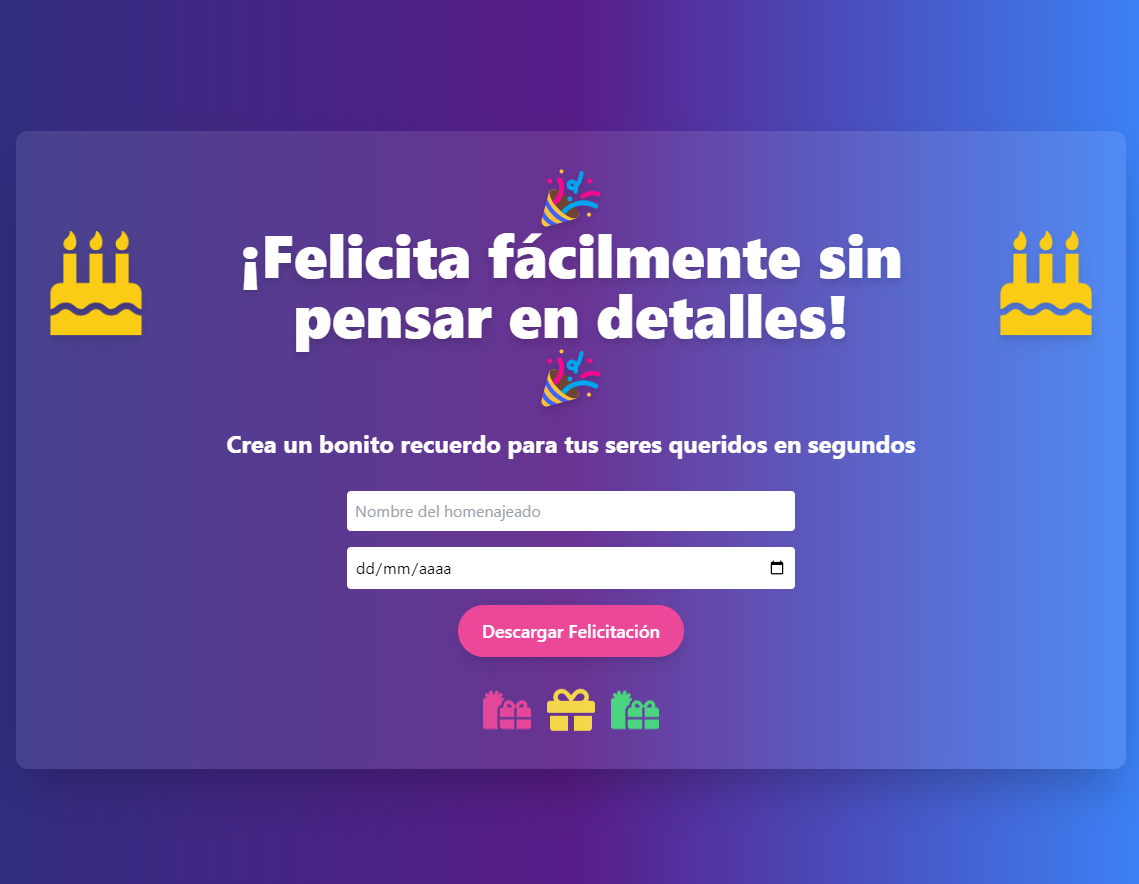
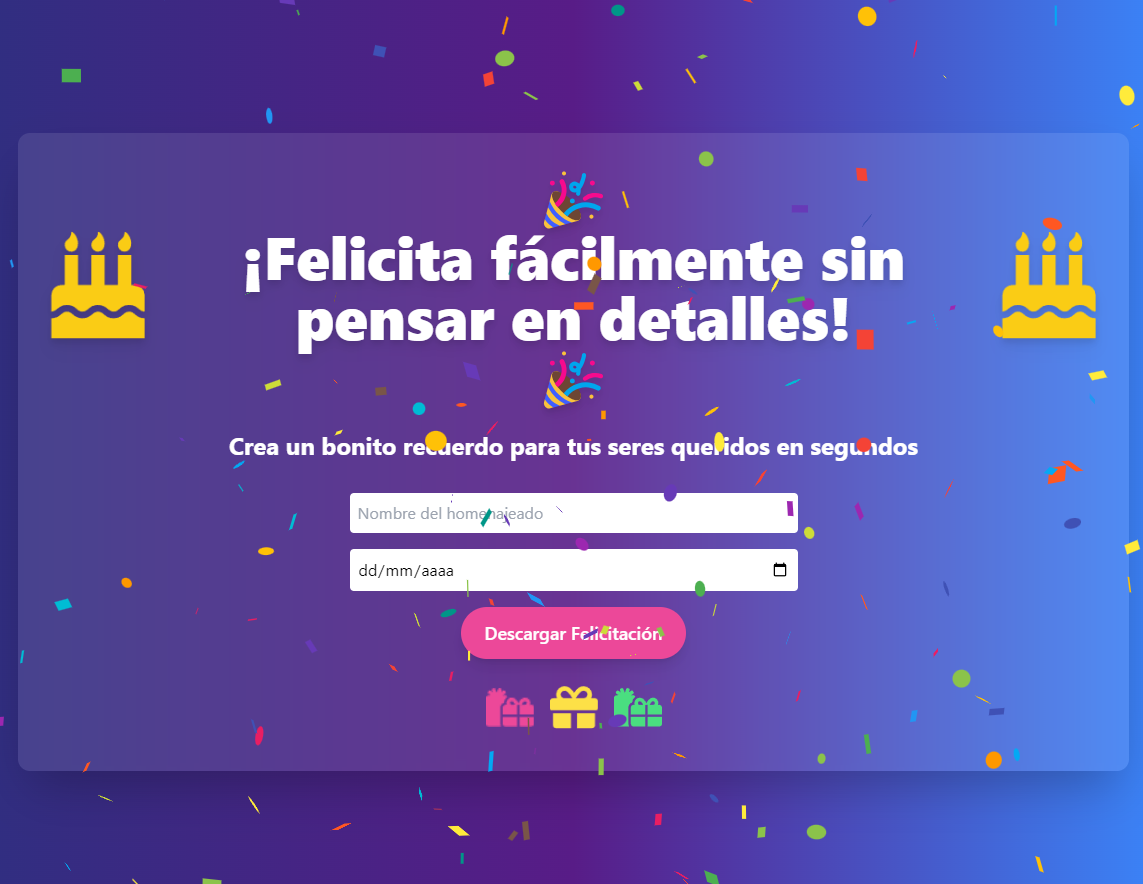
Fix projects

diff --git a/app/data/projects.js b/app/data/projects.js
@@ -4,7 +4,7 @@ export const projects = [
     category: "frontend",
     title: "SaaS Landing Page",
     description:
-      "La página de inicio para Softwares de Servicios (SaaS) ofrece una experiencia intuitiva y atractiva para los usuarios. Con un diseño moderno y responsivo, la página destaca las características clave de nuestro servicio, incluyendo planes de precios flexibles y testimonios de clientes satisfechos.",
+      "La página de inicio para Softwares de Servicios (SaaS) ofrece una experiencia intuitiva y atractiva para los usuarios. Con un diseño moderno y responsivo, la página destaca las características clave de nuestro servicio.",
     stack: [
       { name: "React + Vite" },
       { name: "Tailwind.css" },

diff --git a/app/components/Photo.jsx b/app/components/Photo.jsx
@@ -22,7 +22,7 @@ const Photo = () => {
           className="w-[298px] h-[298px] lg:w-[498px] lg:h-[498px] mix-blend-lighten absolute"
         >
           <Image
-            src="/assets/photo.png"
+            src="https://manurubik.github.io/myportfolio/assets/photo.png"
             priority
             quality={100}
             fill
